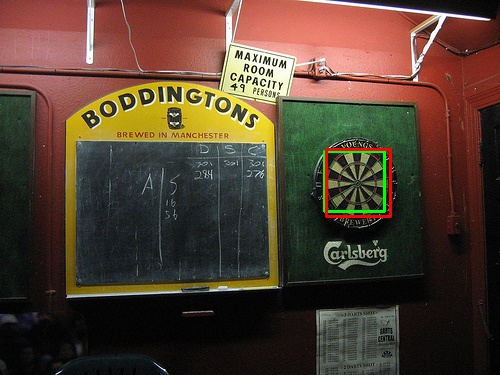
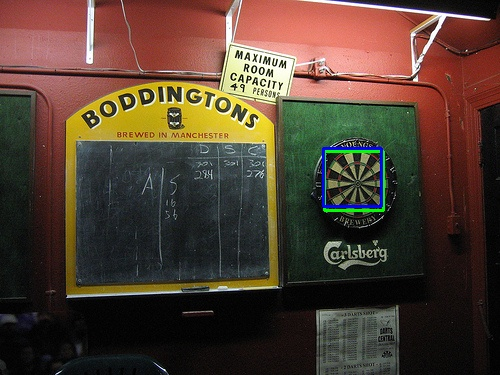
combine

Changed region(s): [[0.63, 0.3813, 0.81, 0.5867]]

diff --git a/compV/CW1/Sub3/houghline.cpp b/compV/CW1/Sub3/houghline.cpp
@@ -8,6 +8,9 @@
 #include <stdio.h>
 using namespace cv;
 
+String cascade_name = "cascade.xml";
+CascadeClassifier cascade;
+
 Mat sobel (Mat input/*, Mat dx, Mat dy, Mat magnitude, Mat direction*/) {
 
   Mat dx(input.rows, input.cols, CV_32FC1, Scalar(0));
@@ -70,6 +73,44 @@ void threshold(Mat input, int val) {
   imwrite("threshold.jpg", output);
 }
 
+void houghline(Mat threshold, Mat direction){
+  int diagonal = sqrt((threshold.rows*threshold.rows)+(threshold.cols*threshold.cols));
+  Mat output(threshold.rows, threshold.cols, CV_32FC1, Scalar(0));
+  int accumulator[180][diagonal];
+  for (int i = 0; i < diagonal; i++) {
+    for (int j = 0; j < 180 ; j++) {
+        accumulator[j][i] = 0;
+      }
+    }
+    for (int x = 0; x < threshold.rows; x++) {
+      for (int y = 0; y < threshold.cols; y++) {
+          float angle = (direction.at<float>(x,y)*180)/3.1415926;
+          int variation = 5;
+          if (threshold.at<uchar>(x, y) == 255) {
+            float minA,maxA =0;
+            if (angle<0) minA += 180+variation;
+            else if(angle>180) maxA -= 180+variation;
+            for(int z =0;z<180;z++){
+              if(angle>minA && angle<maxA){
+              float perpenD = x*cos(z)+ y*sin(z);
+              if(perpenD<=diagonal){
+                accumulator[z][(int)perpenD] +=1;
+              }
+            }
+          }
+        }
+      }
+    }
+    for(int i=0;i<diagonal;i++){
+      for(int j=0;j<180;j++){
+        if(accumulator[j][i] > 255) accumulator[j][i] = 255;
+        output.at<uchar>(j,i) = accumulator[j][i];
+      }
+    }
+    imwrite("dart3lines.jpg", output);
+}
+
+
 int ***malloc3dArray(int dim1, int dim2, int dim3)
 {
     int i, j, k;
@@ -116,7 +157,6 @@ vector<Rect> hough(Mat threshold, Mat direction, int radius) {
             output.at<float>(xon, yon) += 1;
             accumulator[xon][yon][r] += 1;
           }
-
         }
       }
     }
@@ -217,24 +257,35 @@ void detectAndDisplay( Mat input )
 
   std::vector<Rect> imgDetected = hough(threshold, direction, 150);
 
+  equalizeHist( gray_image, gray_image );
+  std::vector<Rect> dartboards;
+
+  cascade.detectMultiScale( gray_image, dartboards, 1.1, 1, 0|CV_HAAR_SCALE_IMAGE, Size(50, 50), Size(500, 500) );
+
+  // for( int i = 0; i < dartboards.size(); i++ )
+  // {
+  //   rectangle(input,dartboards[i], Scalar( 255, 0, 0 ), 2);
+  // }
+  // std::cout << dartboards.size() << std::endl;
+
   for( int k = 0; k < imgDetected.size(); k++ )
   {
-    rectangle(input, Point(imgDetected[k].x, imgDetected[k].y), Point(imgDetected[k].x + imgDetected[k].width, imgDetected[k].y + imgDetected[k].height), Scalar( 0, 255, 0 ), 2);
+    rectangle(input, imgDetected[k], Scalar( 0, 255, 0 ), 2);
   }
 
-	for( int i = 0; i < img3.size(); i++ )
-	{
-		rectangle(input, Point(img3[i].x, img3[i].y), Point(img3[i].x + img3[i].width, img3[i].y + img3[i].height), Scalar( 0, 0, 255 ), 2);
-	}
+	// for( int i = 0; i < img3.size(); i++ )
+	// {
+	// 	rectangle(input, img3[i], Scalar( 0, 0, 255 ), 2);
+	// }
   float truePositives = 0;
   float falsePositives = 0;
   float falseNegatives = 0;
-
+  std::vector<Rect> accurateViola;
   for (int i = 0; i < imgDetected.size(); i++) {
 		int correct = 0;
-		for (int j = 0; j < img3.size(); j++) {
+		for (int j = 0; j < dartboards.size(); j++) {
 			Rect r1(imgDetected[i].x, imgDetected[i].y,imgDetected[i].width,imgDetected[i].height);
-			Rect r2(img3[j].x, img3[j].y,img3[j].width,img3[j].height);
+			Rect r2(dartboards[j].x, dartboards[j].y,dartboards[j].width,dartboards[j].height);
 			Rect intersection = r1 & r2;
 			Rect unionA = r1 | r2;
 			float iWidth = intersection.width;
@@ -242,9 +293,11 @@ void detectAndDisplay( Mat input )
 			float uWidth = unionA.width;
 			float uHeight = unionA.height;
 			float areaRatio = (iWidth * iHeight) / (uWidth * uHeight);
-			if (areaRatio >= 0.25f) {
+			if (areaRatio >= 0.5f) {
 				correct = 1;
 				truePositives += 1;
+        accurateViola.push_back(Rect(dartboards[j].x, dartboards[j].y,dartboards[j].width,dartboards[j].height));
+        rectangle(input,Point(dartboards[j].x, dartboards[j].y), Point(dartboards[j].x + dartboards[j].width, dartboards[j].y + dartboards[j].height), Scalar( 255, 0, 0 ), 2);
 				printf("IOU is %f\n",areaRatio);
 			 }
 		}
@@ -266,6 +319,7 @@ void detectAndDisplay( Mat input )
 
 int main() {
   Mat input = imread("dart3.jpg", 1);
+  if( !cascade.load( cascade_name ) ){ printf("--(!)Error loading\n"); return -1; };
   detectAndDisplay(input);
   return 0;
 }
